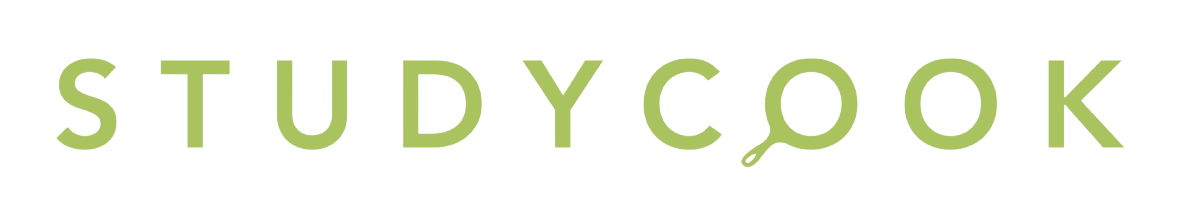
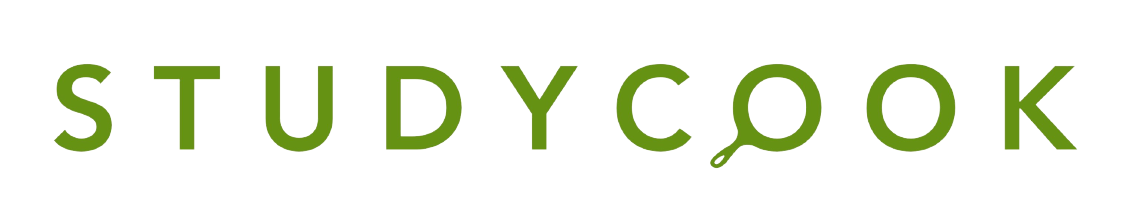
Code saubergemacht

Changed region(s): [[0.3368, 0.2584, 0.9493, 0.8038], [0.0306, 0.2584, 0.3062, 0.7177]]

diff --git a/src/Views/Header.css b/src/Views/Header.css
@@ -1,6 +1,6 @@
-.Header {
+.header {
   position: fixed;
-  top: 0; /* Stick it to the top */
+  top: 0;
   max-height: 70px;
   width: 100vw;
 
@@ -11,22 +11,24 @@
   box-shadow: 0 4px 8px 0 rgba(0,0,0,0.2);
 }
   
-.Logo {
+.headerLogo {
   grid-area: logo;
   height: 70px;
   cursor: pointer;
+  margin-left: 5%;
 }
   
-.Nav {
+.nav {
   display: grid;
   grid-area: nav;
   grid-template-columns: repeat(5, auto);
   align-items: center;
   justify-items: center;
+  margin-right: 5%;
 }
 
-.Nav span {
-  color: #A9C45E;
+.nav span {
+  color: #66921B;
   font-size: 20px;
   font-weight: 500;
   transition: 0.5s;
@@ -34,15 +36,15 @@
   cursor: pointer;
 }
 
-.Nav a:hover {
+.nav a:hover {
   transform: scale(1.1);
 }
 
-.Nav span:hover{
-  color: #66921B;
+.nav span:hover{
+  color: #A9C45E;
 }
 
-.Burger {
+.burger {
   display: none;
   grid-area: burger;
   margin: 0 20px 0 0;
@@ -53,21 +55,21 @@
   background: none;
   outline: none;
   transition: 0.1s;
-  color: #A9C45E;
+  color: #66921B;
 }
-.Burger:active {
+.burger:active {
   transform: scale(1.2);
 }
 
-.Burger:hover{
-  color: #66921B;
+.burger:hover{
+  color: #A9C45E;
 }
 
 @media (max-width: 700px) {
-  .Header {
+  .header {
     grid-template-areas: "logo burger" "nav nav";
   }
-  .Nav {
+  .nav {
     grid-template-rows: repeat(4, auto);
     grid-template-columns: none;
     grid-row-gap: 20px;
@@ -83,19 +85,19 @@
   }
 }
 
-.NavAnimation-enter {
+.navAnimation-enter {
   opacity: 0;
   transform: scale(0.5);
 }
-.NavAnimation-enter-active {
+.navAnimation-enter-active {
   opacity: 1;
   transform: translateX(0);
   transition: opacity 350ms, transform 350ms;
 }
-.NavAnimation-exit {
+.navAnimation-exit {
   opacity: 1;
 }
-.NavAnimation-exit-active {
+.navAnimation-exit-active {
   opacity: 0;
   transform: scale(0.5);
   transition: opacity 350ms, transform 350ms;

diff --git a/public/index.html b/public/index.html
@@ -4,39 +4,10 @@
     <meta charset="utf-8" />
     <link rel="icon" href="%PUBLIC_URL%/logo.png" />
     <meta name="viewport" content="width=device-width, initial-scale=1" />
-    <meta
-      name="description"
-      content="Web site created using create-react-app"
-    />
-    <link rel="apple-touch-icon" href="%PUBLIC_URL%/logo.png" />
-    <!--
-      manifest.json provides metadata used when your web app is installed on a
-      user's mobile device or desktop. See https://developers.google.com/web/fundamentals/web-app-manifest/
-    -->
-    <link rel="manifest" href="%PUBLIC_URL%/manifest.json" />
-    <!--
-      Notice the use of %PUBLIC_URL% in the tags above.
-      It will be replaced with the URL of the `public` folder during the build.
-      Only files inside the `public` folder can be referenced from the HTML.
-
-      Unlike "/favicon.ico" or "favicon.ico", "%PUBLIC_URL%/favicon.ico" will
-      work correctly both with client-side routing and a non-root public URL.
-      Learn how to configure a non-root public URL by running `npm run build`.
-    -->
     <title>Studycook</title>
   </head>
   <body>
     <noscript>You need to enable JavaScript to run this app.</noscript>
     <div id="root"></div>
-    <!--
-      This HTML file is a template.
-      If you open it directly in the browser, you will see an empty page.
-
-      You can add webfonts, meta tags, or analytics to this file.
-      The build step will place the bundled scripts into the <body> tag.
-
-      To begin the development, run `npm start` or `yarn start`.
-      To create a production bundle, use `npm run build` or `yarn build`.
-    -->
   </body>
 </html>

diff --git a/src/Views/Header.js b/src/Views/Header.js
@@ -1,4 +1,4 @@
-/* eslint-disable jsx-a11y/accessible-emoji */
+
 import React, { useState, useEffect } from "react";
 import "./Header.css";
 import { CSSTransition } from "react-transition-group";
@@ -32,15 +32,15 @@ export default function Header() {
   };
 
   return (
-    <header className="Header">
-      <img onClick={() => navigate('/')} src={require("../images/name.png")} className="Logo" alt="logo"/>
+    <header className="header">
+      <img onClick={() => navigate('/')} src={require("../images/name.png")} className="headerLogo" alt="logo"/>
       <CSSTransition
         in={!isSmallScreen || isNavVisible}
         timeout={350}
-        classNames="NavAnimation"
+        classNames="navAnimation"
         unmountOnExit
       >
-        <nav className="Nav">
+        <nav className="nav">
           <span onClick={() => {navigate('/'); toggleNav()}}>Home</span>
           <span onClick={() => {navigate('/search'); toggleNav()}}>Suche</span>
           <span onClick={() => {navigate('/shoppingList'); toggleNav()}}>Einkaufsliste</span>
@@ -48,7 +48,7 @@ export default function Header() {
           <span onClick={() => {navigate('/impressum'); toggleNav()}}>Impressum</span>
         </nav>
       </CSSTransition>
-      <button onClick={toggleNav} className="Burger">
+      <button onClick={toggleNav} className="burger">
         ☰
       </button>
     </header>

diff --git a/src/App.js b/src/App.js
@@ -10,7 +10,6 @@ import Search from "./Views/Search";
 import Header from "./Views/Header";
 import Contact from "./Views/Contact";
 import Impressum from "./Views/Impressum";
-import ShoppingList from "./Views/ShoppingList";
 
 function App() {
   return (
@@ -22,7 +21,6 @@ function App() {
         <Route exact path="/search" element={<Search/>}/>
         <Route exact path="/contact" element={<Contact/>}/>
         <Route exact path="/impressum" element={<Impressum/>}/>
-        <Route exact path="/shoppingList" element={<ShoppingList/>}/>
         <Route exact path="/detail/:recipeID" element={<DetailView/>}/>
         <Route path="*" element={<Home/>}/>
       </Routes>

diff --git a/src/Views/DetailView.js b/src/Views/DetailView.js
@@ -55,9 +55,10 @@ function DetailView() {
             <ul>
               {recipe.ingredients.map((ing) => <li key={ing.name} message={ing.name} >{ing.name + ' ' + ing.amounth + ing.scale}</li>)}
             </ul>
-            <h2>Zubereitung</h2><p>({recipe.duration} Minuten)</p>
+            <h2>Zubereitungszeit</h2><p>{recipe.duration} Minuten</p>
+          </div>
         </div>
-        </div>
+        <h2>Zubereitung</h2>
         {recipe.process.map((step) => <p key={step}>{step}</p>)}
         <button onClick={() => addToLocalStorage(recipeID)}>Zur Einkaufsliste hinzufuegen</button>
         

diff --git a/src/Views/Home.js b/src/Views/Home.js
@@ -1,11 +1,19 @@
 import React from "react";
 
 function Home() {
+  var topRecipe1 = require('../data/Recipes.json')[0];
   return (
     <div>
       <div className="card cardMain">
         <h1>Willkommen!</h1>
-        
+        <h2>Top-Rezepte der Woche</h2>
+        <div className="flex-container">
+          <img className="recipePic" alt={topRecipe1.name} src={ require('../images/' + topRecipe1.image) } />
+          <div>
+            <h2>{topRecipe1.name}</h2>
+            <p>Zubereitungszeit: {topRecipe1.duration} Minuten</p>
+          </div>
+        </div>
       </div>
     </div>
   );

diff --git a/src/index.css b/src/index.css
@@ -1,13 +1,10 @@
 body {
   margin: 0;
-  font-family: -apple-system, BlinkMacSystemFont, 'Segoe UI', 'Roboto', 'Oxygen',
-    'Ubuntu', 'Cantarell', 'Fira Sans', 'Droid Sans', 'Helvetica Neue',
-    sans-serif;
+  font-family: 'Segoe UI';
   -webkit-font-smoothing: antialiased;
   -moz-osx-font-smoothing: grayscale;
 }
 
 code {
-  font-family: source-code-pro, Menlo, Monaco, Consolas, 'Courier New',
-    monospace;
+  font-family: Consolas;
 }

diff --git a/src/globalStyles.css b/src/globalStyles.css
@@ -8,12 +8,13 @@
 }
 
 .cardMain {
-  width: 95%;
+  width: 80%;
 }
 
 .flex-container {
   display: flex;
   flex-wrap: wrap;
+  margin-bottom: 30px;
 }
 
 .foodIMG {
@@ -44,4 +45,17 @@
   border: none;
   font-size: 30px;
   margin-top: 10px;
+}
+
+.recipePic{
+  display: block;
+  max-width:300px;
+  width: 100%;
+  height: auto;
+  margin-right: 25px;
+  margin-left: 25px;
+}
+
+body{
+  background-image: cross-fade();
 }

diff --git a/src/Views/Search.js b/src/Views/Search.js
@@ -1,5 +1,5 @@
 import React from "react";
-import {useNavigate } from 'react-router-dom'
+import {useNavigate } from 'react-router-dom';
 
 function Search() {
   const navigate = useNavigate();
